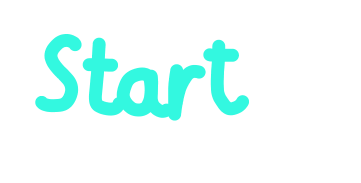
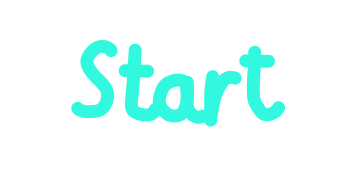
Readme Update (Urgent)

Changed region(s): [[0.0914, 0.1639, 0.7922, 0.7104]]

diff --git a/README.md b/README.md
@@ -1,14 +1,15 @@
-# Project: osu! Gacha Club (Repository: osu-Mg-reload)
-1 of 2 core projects of osu! Gacha Club, with the purpose to bring Gacha Club to osu! game. Transferred and/or revamped from osu-mg-skin
+# Project: osu! Gacha Club | Sub-project: osu! Mg - Season 01  | Branch: v.4.1.x
+
+![Project Banner Season 1](https://github.com/user-attachments/assets/a769a7f7-a899-40cf-9699-467ea15445b5)
+
+
+1 of 2 core projects of osu! Gacha Club, with the purpose to bring Gacha Club to osu! game. Transferred and/or revamped from [osu-mg-skin](https://github.com/greenmg2003/osu-Mg-skin)
 
 You may want to jump to [skin preview](#-media-latest-version-)
 
-Please consider taking it for free, credits me if you want to reuse some of my Gacha Club elements ^^
-
-Status: This branch 4.1.3 is done, and **there will be** 1 last major update to close Season 1 - Coming soon at 5.1.0. Thank you for all your support!
+Current status: Project is realeasing the translation for Vietnamese and Japanese support! There will be more updates in the future!!
 
 [Stability Status]: As of now, the project is stable. There is [the post exposing the hatred towards this project](https://github.com/greenmg2003/osu-mg-reload/blob/main/30-01-2025-serious-report.md).
-
 ---
 
 #                                ~ osu! Mg ~
@@ -17,7 +18,7 @@ Status: This branch 4.1.3 is done, and **there will be** 1 last major update to 
 
 - Co-leader: **Hikari Richiumu**
 
-- Latest Version for this branch: [4.1.3](https://github.com/alphamg2003/osu-Mg-reload/releases/tag/v.4.1.3-release)
+- Latest Version for this branch: [4.1.5](https://github.com/alphamg2003/osu-Mg-reload/releases/tag/v.4.1.5-release)
 
 - Copyright issue: Assets that are made from other skins is credited to the owners. Any elements that are made with Gacha Club, if you want to reuse it, please credit me. It's a non-commercial project after all.
 
@@ -26,22 +27,16 @@ Status: This branch 4.1.3 is done, and **there will be** 1 last major update to 
 Sub-project: [VTuber Alpha Mg](https://github.com/alphamg2003/Alpha_Mg_VTuber)
 
 #                                 ~ Important ~
-                                
-~⚠ The Project (along with big project - osu! Gacha Club) no longer affiliates and no longer supports Gacha Community anymore, starting from 15th May, 2024, until the end of 14th April 2025. That doesn't mean I stopped supporting the game, but please DO NOT refer this as a part of Gacha Community anymore. We simply do it for personal use at the start, and I bring this part of project for public use to everyone who supported us, not for serving and beautify Gacha Community anymore like it used to be.~ (This statement is subjected to be changed later)
+                                 
+⚠ **The Project (along with big project - osu! Gacha Club) IS NOT a part of Gacha Community.** That does not mean I stopped supporting the game. We simply do it for personal use at the start, and I bring this part of project for public use to everyone who supported us, not for serving and beautify Gacha Community like in the past. [Read here to understand why](https://github.com/greenmg2003/osu-mg-reload/blob/main/project_direction.md). All the hatred that I received that is like "Ew Gacha" or "Gacha is disgusting" will be redirected to community, I do not have time to deal with that. The community does bad thing and they must suffer the consequences themselves, not me.
 
-Update on 24/03/2025 from Mg (me): I might re-consider supporting the community after the below community has done something worse to me, should the community choose to and welcome me and this project back
+⚠ **We DO NOT welcome kids from Gacha Community who are 16 years old and below, or cringe, heat content creators.** As stated, this project is only for the one who wish to sail on same boat with me and support me. 
 
-Update on 14/04/2025 from Mg (me): With the release of Gacha Story coming in 15/04/2025, I'll give the community the second chance to test
-
-⚠ **The Project (along with big project - osu! Gacha Club) also no longer affiliates and no longer supports RGVN, starting from 20th March, 2025. Their defamation behind my back has disgusted me.** Should they continue to consume this project to defame members of the project and caught red-handed, I'll file a lawsuit.
-
-⚠ **We DO NOT welcome member of RGVN (except explicit cases), Gacha players and other players who are woke LGBTQ+ (or should I say, the predators), and Gacha Kids (Gacha Players who are less than 14 years old).** If you are like that, and you wanna call me homophobic and disgusting guy, go on, I don't care. As stated, this project is only for the one who wish to sail on same boat with me and support me.
-
-✳ For 4.1.x: The skin is only SD-based, HD elements will be reworked once I have plenty of time to do
+✳ For 4.1.x: The skin is only SD
 
 ✳ Want to contribue? [Great, read this first before contributing!](https://github.com/alphamg2003/osu-Mg-reload/blob/main/CONTRIBUTING.md)
 
-✳ Some issues mentioned in the changelog are from osu-mg-skin, you can go there and check
+✳ There might be some issues mentioned in the changelog that are from [osu-Mg-skin](https://github.com/greenmg2003/osu-Mg-skin), you can go there and check
 
 #                          ~ Mg's team in the skin - List of people ~
 
@@ -134,6 +129,20 @@ Update on 14/04/2025 from Mg (me): With the release of Gacha Story coming in 15/
 # ~ Changelog ~
 
 ## [4.x]
+
+# [4.1.5](https://github.com/alphamg2003/osu-Mg-reload/releases/tag/v.4.1.5-release)
+
+🔄 Overhauled the text in Pause Screen (Continue, Retry, Back, Watch Replay), check #79
+
+🔄 Fixed "Start" text not centralized
+
+🔄 Text update: "Maximum Recall" -> "Max Combo", "Full Recall" -> "Full Mana!!", "Recall Rate" -> "Mana Rate" (Mainly to avoid DMCA'd by Arcaea by the calling system)
+
+\+ LIMBUS COMPANYYYYYYYYYYYYYYYYYY
+
+# [4.1.4](https://github.com/greenmg2003/osu-mg-reload/releases/tag/v.5.0.4-lazer-release)
+
+\+ Lazer support
 
 ### [4.1.3](https://github.com/greenmg2003/osu-mg-reload/releases/tag/v.4.1.3-release)
 
